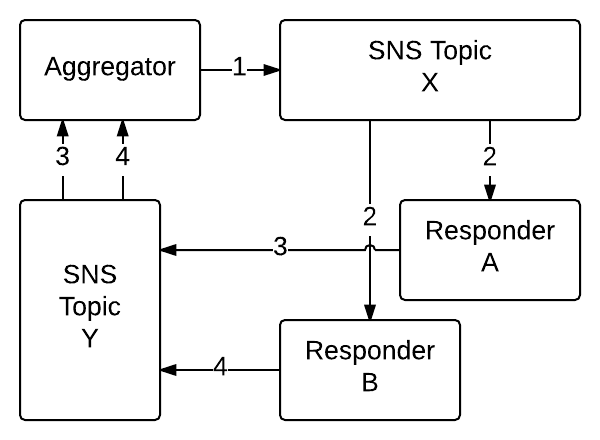
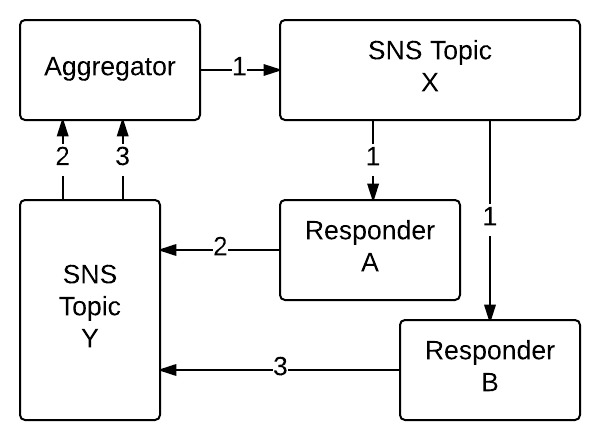
update readme

diff --git a/README.md b/README.md
@@ -1,5 +1,67 @@
 # aws-scatter-gather
 
+An NPM package that facilitates the scatter gather design pattern using AWS SNS Topics.
+
+## About
+
+A scatter-gather design pattern sends a single request to many servers and then aggregates the responses of those servers. Because this module uses AWS SNS Topics for communication it is using an asynchronous messaging pattern.
+
+### What is an SNS Topic
+
+An AWS SNS Topic is a messaging channel that any number of servers can subscribe to. When the SNS Topic receives an event it pushes that event to all servers that are subscribed to the topic.
+
+### Synchronous vs Asynchronous Messaging
+
+HTTP is commonly used to make synchronous requests:
+
+1. A client initiates a connection with a server.
+2. The client sends the request over that connection.
+3. The server sends the response over that connection.
+4. The connection is closed.
+
+For asynchronous requests:
+
+1. A client initiates a connection with a server.
+2. The client sends the request over that connection.
+3. The server confirms that the request was received.
+4. The connection is closed.
+5. At some point in the future:
+    1. The server initiates a connection with the client*.
+    2. The server sends the response to the client.
+    3. The client confirms the response was received.
+    4. The connection is closed.
+
+\* *I am aware that the server is now the client and the client the server, but to keep things simple I kept their names the same.*
+
+![Single SNS Topic Concept](./img/concept.png)
+
+### Deciding on the Number of Topics
+
+**Option 1**
+
+The below image more accurately portrays messaging when using a single SNS Topic:
+
+![Single SNS Topic Reality](./img/reality.png)
+
+Using a single topic reduces initial set up, but it increases network traffic and the number of times requests are processed. The number of additional requests that would be made in this situation can be caluculated using this formula:
+
+`N x N + 1`
+
+`N` is the number of servers responding to the request.
+
+So, if you have `5` servers that are responding to requests from the aggregator then you'll have a total of 26 additional requests that did not need to be made. Every requests will consume both consume the network bandwidth and processing time.
+
+**Option 2**
+
+An alternative is to use two SNS Topics:
+
+1. Topic X can be subscribed to by all servers that are listing for requests. The client will make it's request to this topic.
+2. Topic Y can be subscribed to by the client aggregating the responses. All servers will publish their responses to this topic.
+
+Using this method no unneeded requests will be made.
+
+![Double SNS Topic](./img/fix.png)
+
 ## Aggregators
 
 **Define an Aggregator**
